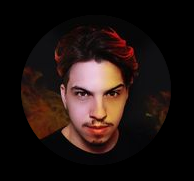
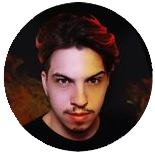
photos and css

diff --git a/equipe.html b/equipe.html
@@ -19,7 +19,9 @@
   <body>
     <div id="container2">
     <div id="asas">
-      <img src="./assets/asas.png" alt="">
+      <img src="./assets/asas.png" alt="Foto asas" style=" 
+      max-width: 100%; 
+      ">
     </div>
     <div id="voltar">
       <a href="./index.html">
@@ -29,7 +31,8 @@
 
     <div id="fotoFun">
       <div id="fotoFun2">
-        <img src="./assets/foto-fun.png" alt="Foto Funbabe" />
+        <img src="./assets/foto-fun.png" alt="Foto Funbabe" style=" 
+        max-width: 100%;"/>
         <p>FUNBABE</p>
         <p id="cargo0">Fundadora</p>
         <a href="https://www.instagram.com/funbabe/" target="_blank">
@@ -40,7 +43,8 @@
 
     <div id="fotos">
       <div id="fotoDan">
-        <img src="./assets/foto-daniel.png" alt="Foto Daniel" />
+        <img src="./assets/foto-daniel.png" alt="Foto Daniel" style=" 
+        max-width: 100%;" />
         <p>DANIEL</p>
         <p id="cargo1">Dono</p>
         <a href="https://www.instagram.com/danflpx/" target="_blank">
@@ -48,7 +52,8 @@
         </a>
       </div>
       <div id="fotoTeddy">
-        <img src="./assets/foto-teddy.png" alt="Foto Tiltedy" />
+        <img src="./assets/foto-teddy.png" alt="Foto Tiltedy" style=" 
+        max-width: 100%;" />
         <p>TILTEDDY</p>
         <p id="cargo2">Dono</p>
         <a href="https://www.instagram.com/tilteddy/" target="_blank">
@@ -56,7 +61,8 @@
         </a>
       </div>
       <div id="fotoZira">
-        <img src="./assets/foto-zira.png" alt="Foto Zira" />
+        <img src="./assets/foto-zira.png" alt="Foto Zira" style=" 
+        max-width: 100%;" />
         <p>ZIRA</p>
         <p id="cargo3">Dono</p>
         <a href="https://www.instagram.com/raphaelzirarj/" target="_blank">
@@ -66,7 +72,8 @@
     </div>
     <div id="fotoSummerz">
       <div id="fotoSummerz2">
-        <img src="./assets/foto-summerz.png" alt="Foto Summerz" />
+        <img src="./assets/foto-summerz.png" alt="Foto Summerz" style=" 
+        max-width: 100%;"/>
         <p>Summerz</p>
         <p id="cargo4">Developer</p>
         <a href="https://www.instagram.com/vitorsummerz/" target="_blank">

diff --git a/style.css b/style.css
@@ -49,10 +49,8 @@ body * {
 }
 
 #container2 {
-  width: 100%;
-  max-width: 588px;
-  margin: 56px auto 0px auto; /*cima direita baixo esquerda*/
-  padding: 0 24px;
+  max-width: 100%;
+  margin: 0 auto;
 }
 
 /*profile*/
@@ -63,7 +61,7 @@ body * {
 }
 
 #profile img {
-  width: 112px;
+  width: 150px;
 }
 
 #profile p {
@@ -242,17 +240,15 @@ footer {
   display: flex;
   justify-content: left;
 
-  padding: 24px 0px 0px 24px;
-
   font-size: 32px;
 }
 
 #voltar a {
-  position: relative;
-  z-index: 1;
   display: flex;
   align-items: center;
   justify-content: center;
+  position: relative;
+  z-index: 1;
   padding: 4px;
 
   transition: background 0.2s;
@@ -266,7 +262,7 @@ footer {
 
 #fotoFun {
   position: a;
-  gap: 50px;
+  gap: 30px;
   display: flex;
   justify-content: center;
   padding: 0 0 16px 0;
